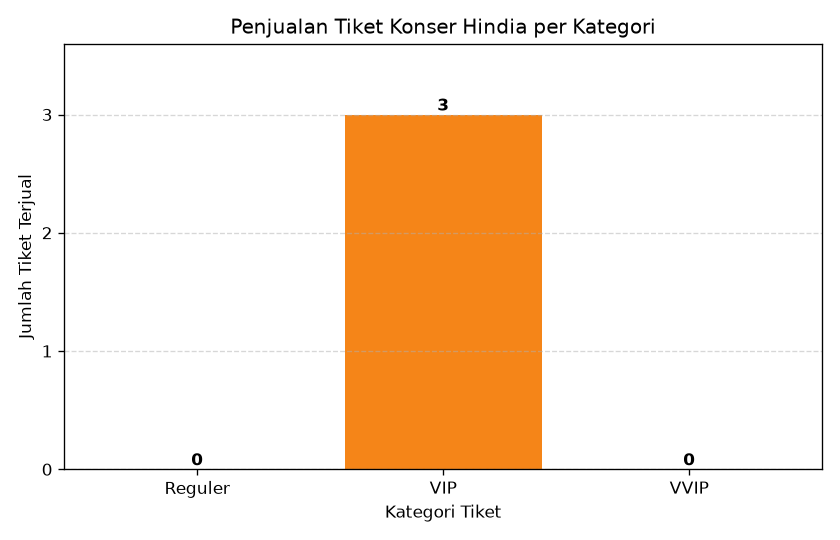
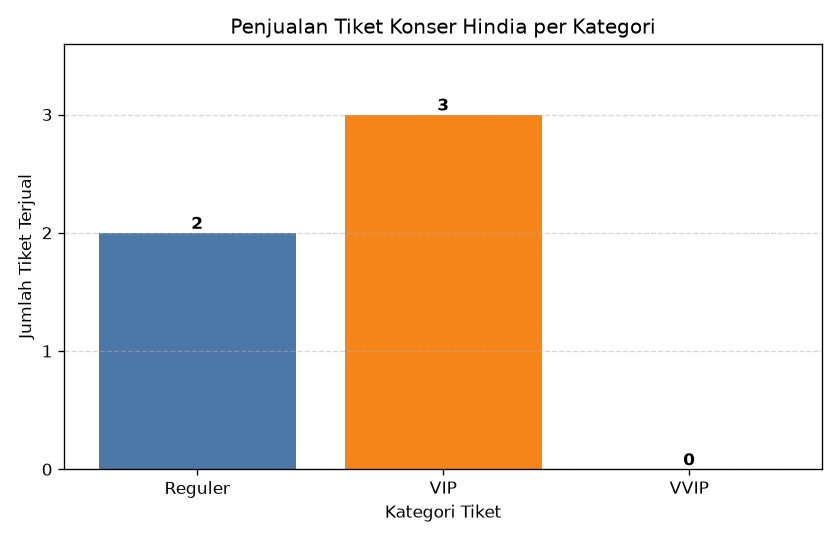
perbaiki n

Changed region(s): [[0.0929, 0.3852, 0.3714, 0.8889]]

diff --git a/menu_admin.py b/menu_admin.py
@@ -1,6 +1,6 @@
 from database import (baca_data, simpan_data, file_akun, file_konser, file_diskon, file_tiket, file_pembayaran, file_pembatalan)
-from bantuan import (rupiah, garis, input_angka, input_angka_kosong, input_wajib, tanya_ya_tidak, id_berikutnya, tampilkan_rincian, tampilkan_baris_pesanan, clear, input_password)
-from pesanan import (cari_pesanan, cari_kategori, pembayaran_terakhir, setujui_pembayaran, tolak_pembayaran, batalkan_pesanan)
+from bantuan import (rupiah, garis, input_angka, input_angka_kosong, input_wajib, tanya_ya_tidak, id_berikutnya, tampilkan_rincian, tampilkan_baris_pesanan, clear, input_password, tekan_enter)
+from pesanan import (cari_pesanan, cari_kategori, pembayaran_terakhir, batalkan_pesanan)
 from pembayaran import batalkan_kadaluarsa
 from laporan import (hitung_penjualan, tampilkan_laporan, tampilkan_diagram_batang, simpan_laporan_teks, file_grafik, file_laporan)
 
@@ -79,7 +79,10 @@ def kelolaAkun(akun_admin):
             elif tanya_ya_tidak(f"Hapus akun {a['username']}?"):
                 daftar_akun.pop(nomor - 1)
                 simpan_data(file_akun, daftar_akun)
-                print("Akun berhasil dihapus")
+                print(f"akun {a['username']} telah dihapus")
+            else:
+                print("penghapusan akun dibatalkan")
+            tekan_enter()
 
         elif pilih == "4":
             print("Logout berhasil")
@@ -169,7 +172,7 @@ def hapus_kategori(konser):
 
 
 def kelolaKonserDanKatalog():
-    pesan = ""        # hasil aksi sebelumnya, ditampilkan setelah layar dibersihkan
+    pesan = ""        
     while True:
         clear()
         konser = baca_data(file_konser)
@@ -308,50 +311,24 @@ def lihatTransaksiPemesanan():
         print("Status       :", t["status"])
         print("Status tiket :", t["status_tiket"])
 
+def LihatTransaksiPembayaran():
+    clear()
+    daftar_bayar = baca_data(file_pembayaran)
+    print("====== Transaksi Pembayaran ======")
 
+    if len(daftar_bayar) == 0:
+        print("transaksi pembayaran belum tersedia")
+        return
+        
 
-def kelolaVerifikasiPembayaran():
-    while True:
-        clear()
-        menunggu = [b for b in baca_data(file_pembayaran) if b["status"] == "Menunggu Verifikasi"]
-        print("=====VERIFIKASI PEMBAYARAN=====")
-        if len(menunggu) == 0:
-            print("Tidak ada pembayaran menunggu")
-            return
+    print(f"\n{'ID':<5}{'Kode':<15}{'Username':<15}{'Metode':<18}{'Nominal':<15}{'Status':<25}")
 
-        for b in menunggu:
-            print(f"{b['kode_pesan']} | {b['username']} | {rupiah(b['nominal'])} | {b['waktu']}")
+    for b in daftar_bayar:
+        print(f"{b['id']:<5}{b['kode_pesan']:<15}" 
+        f"{b['username']:<15}{b['metode']:<18}"
+        f"{rupiah(b['nominal']):<15}{b['status']:<25}")
 
-        kode = input("Kode pesanan yang diperiksa (0 untuk kembali): ").strip().upper()
-        if kode == "0":
-            return
-
-        bayar = None
-        for b in menunggu:
-            if b["kode_pesan"] == kode:
-                bayar = b
-        if bayar is None:
-            print("kode pesanan tidak ada")
-            continue
-
-        pesanan = cari_pesanan(baca_data(file_tiket), kode)
-        print("\n--- Detail Pembayaran ---")
-        tampilkan_rincian(pesanan)
-        print("Nominal dibayar:", rupiah(bayar["nominal"]))
-
-        if bayar["nominal"] != pesanan["total_bayar"]:
-            print("PERINGATAN: nominal tidak sama dengan total bayar!")
-
-        if tanya_ya_tidak("Setujui pembayaran?"):
-            setujui_pembayaran(kode)
-            print("Pembayaran berhasil diverifikasi, status Lunas, tiket Active")
-        else:
-            tolak_pembayaran(kode)
-            print("Pembayaran ditolak")
-
-        if not tanya_ya_tidak("Verifikasi transaksi lain?"):
-            return
-
+    tekan_enter()
 
 
 def kelolaPembatalanTiket():
@@ -424,8 +401,6 @@ def lihatRincianHarga():
     tampilkan_rincian(t)
     print("Persentase diskon:", str(persen) + "%")
 
-
-
 def lihatLaporanPenjualan():
     clear()
     hasil, pembeli = hitung_penjualan()
@@ -455,7 +430,7 @@ def menu_admin(akun):
         print("2. Kelola informasi konser dan katalog tiket")
         print("3. Kelola ketentuan diskon pembelian tiket")
         print("4. Lihat seluruh transaksi pemesanan")
-        print("5. Kelola dan verifikasi pembayaran")
+        print("5. Lihat Transaksi Pembayaran")
         print("6. Kelola pembatalan tiket")
         print("7. Lihat rincian harga sebelum dan sesudah diskon")
         print("8. Lihat laporan penjualan tiket (diagram batang)")
@@ -471,7 +446,7 @@ def menu_admin(akun):
         elif menu == "4":
             lihatTransaksiPemesanan()
         elif menu == "5":
-            kelolaVerifikasiPembayaran()
+            LihatTransaksiPembayaran()
         elif menu == "6":
             kelolaPembatalanTiket()
         elif menu == "7":

diff --git a/pembayaran.py b/pembayaran.py
@@ -188,7 +188,6 @@ def bayar_pesanan(kode):
     print(f"Selesaikan pembayaran dalam {BATAS_MENIT} menit sejak pesan "
         f"(sisa {format_sisa(sisa_detik(pesanan))}).")
 
-    # 2. data diri (hanya sekali per pesanan)
     if "data_diri" not in pesanan:
         data = isi_data_diri(pesanan)
         if data is None:
@@ -197,7 +196,6 @@ def bayar_pesanan(kode):
             return
         simpan_data_diri(kode, data)
 
-    # 3. metode
     metode = pilih_metode()
     if metode is None:
         print("Pembayaran ditunda. Pesanan bisa dibayar lewat menu Bayar Pesanan.")
@@ -209,7 +207,6 @@ def bayar_pesanan(kode):
         tekan_enter()
         return
 
-    # 4-5. bayar, 6. e-ticket
     hasil = proses_pembayaran(pesanan, metode)
     if hasil == "berhasil":
         tampilkan_eticket(kode, metode)
